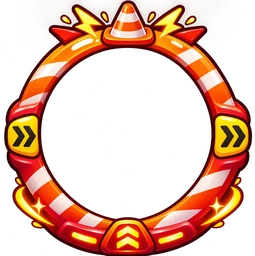
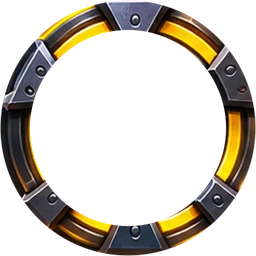
A-6: HUD cyberpunk del Pack 22 (aros, +, rangos, panel del jugador, moneda, barras de vida)
Claude-Session: https://claude.ai/code/session_016LDX8vNq6QmcdLey8vJErm

diff --git a/public/batalla/autopista.html b/public/batalla/autopista.html
@@ -552,6 +552,26 @@ body.guiada #objetivo{display:none}body.cine #guia{visibility:hidden}
 .bv.h.yo i{width:84px !important;height:10px !important}
 .bv.h.yo i::before{left:-20px;right:-20px;top:-8px;bottom:-8px;background-image:url(ui/ap_bv_yo.webp)}
 .bv.h b{margin-bottom:6px !important}.bv.h .mn{margin-top:6px}
+</style><style>
+/* A-6 · Pack 22: aros con hueco del 76 % */
+.hb[data-k]::after,.hb.hs::after,#bR::after{inset:-11% !important}
+/* panel del jugador: proporción 2,64; retrato en x 1,3-32,2 % e y 9,5-91 % */
+#yo{width:200px !important;height:76px !important;padding:0 10px 0 0 !important}
+#yo img{width:58px !important;height:58px !important;margin:0 0 0 4px !important}
+#yo>div{margin-left:10px !important}
+#yoNv{left:44px !important;top:48px !important;width:28px !important;height:28px !important;color:#e8fbff !important;-webkit-text-stroke:2px #061018 !important}
+.xp{width:110px !important;height:14px !important;padding:4px 7px 4px 13px !important}
+.xp i{background:linear-gradient(90deg,#1fa6ff,#5ff0ff) !important;border-radius:1px}
+#oro{color:#ffd35a !important}
+#vital{left:calc(212px + var(--sal)) !important}
+/* barras de vida: el hueco de cada marco medido */
+.bv.h i{width:80px !important;height:8px !important;border-radius:1px !important}
+.bv.h i::before{left:-13px;right:-12px;top:-3px;bottom:-5px}
+.bv.h.e1 i::before{left:-13px;right:-14px;top:-4px;bottom:-5px}
+.bv.h.yo i{width:90px !important;height:8px !important}
+.bv.h.yo i::before{left:-12px;right:-15px;top:-5px;bottom:-5px}
+.bv.h i u{border-radius:1px}
+.bv.h b{margin-bottom:3px !important}.bv.h .mn{margin-top:4px}
 </style><style>#mFondo .fc{background-image:url(ui/ap_carga.webp)!important}#mFondo .ff,#mFondo .fm,#mFondo .fr{display:none}#menu .mSplash img{object-position:50% 0%!important}</style><style>.mTit h1.apLogo{margin:6px 0 0;line-height:0}.mTit h1.apLogo img{width:min(200px,calc(24 * var(--vw)));height:auto;filter:drop-shadow(0 4px 6px #000a)}.mTit h1.apA6{margin:6px 0 0;font:italic 900 46px 'Arial Black',system-ui,sans-serif!important;color:#ffd21f!important;letter-spacing:.04em;line-height:1;-webkit-text-stroke:2px #10161f;text-shadow:0 4px 0 #10161f,0 0 18px #2f8cff88}</style></head>
 <body>
 <div id="cargaVelo" class="hidden"><div class="cvR"></div><p>Preparando la autopista</p><b>0 %</b></div>

diff --git a/tools/vado/hace_autopista.py b/tools/vado/hace_autopista.py
@@ -361,6 +361,28 @@ html = sub(html, '</head>', """<style>
 .bv.h.yo i::before{left:-20px;right:-20px;top:-8px;bottom:-8px;background-image:url(ui/ap_bv_yo.webp)}
 .bv.h b{margin-bottom:6px !important}.bv.h .mn{margin-top:6px}
 </style></head>""", donde='html')
+# ---------- PACK 22 ART (17/11): HUD cyberpunk (mismos nombres que el 19; tools/autopista/procesa_pack22.py). Medidas de los huecos ----------
+html = sub(html, '</head>', """<style>
+/* A-6 · Pack 22: aros con hueco del 76 % */
+.hb[data-k]::after,.hb.hs::after,#bR::after{inset:-11% !important}
+/* panel del jugador: proporción 2,64; retrato en x 1,3-32,2 % e y 9,5-91 % */
+#yo{width:200px !important;height:76px !important;padding:0 10px 0 0 !important}
+#yo img{width:58px !important;height:58px !important;margin:0 0 0 4px !important}
+#yo>div{margin-left:10px !important}
+#yoNv{left:44px !important;top:48px !important;width:28px !important;height:28px !important;color:#e8fbff !important;-webkit-text-stroke:2px #061018 !important}
+.xp{width:110px !important;height:14px !important;padding:4px 7px 4px 13px !important}
+.xp i{background:linear-gradient(90deg,#1fa6ff,#5ff0ff) !important;border-radius:1px}
+#oro{color:#ffd35a !important}
+#vital{left:calc(212px + var(--sal)) !important}
+/* barras de vida: el hueco de cada marco medido */
+.bv.h i{width:80px !important;height:8px !important;border-radius:1px !important}
+.bv.h i::before{left:-13px;right:-12px;top:-3px;bottom:-5px}
+.bv.h.e1 i::before{left:-13px;right:-14px;top:-4px;bottom:-5px}
+.bv.h.yo i{width:90px !important;height:8px !important}
+.bv.h.yo i::before{left:-12px;right:-15px;top:-5px;bottom:-5px}
+.bv.h i u{border-radius:1px}
+.bv.h b{margin-bottom:3px !important}.bv.h .mn{margin-top:4px}
+</style></head>""", donde='html')
 # ---------- EL PUENTE (17/11, Arturo: «como si estuvieses encima de un puente cruzando algo, y a los lados paisaje») ----------
 # el tablero (|x| < 11) cruza un barranco con río entre z = -38 y 38; las bases quedan en tierra firme a los dos lados
 js = sub(js, "      gl_FragColor=vec4(col,1.);\n      #include <colorspace_fragment>", "      gl_FragColor=vec4(col,hueco);\n      #include <colorspace_fragment>")

diff --git a/tools/autopista/procesa_pack22.py b/tools/autopista/procesa_pack22.py
@@ -1,0 +1,34 @@
+"""A-6 · Pack 22 ART (HUD cyberpunk; sustituye al del Pack 19). Ejecutar: python3 -I tools/autopista/procesa_pack22.py"""
+import os
+import numpy as np
+from PIL import Image
+
+R = os.path.dirname(os.path.dirname(os.path.dirname(os.path.abspath(__file__))))
+P, UI = os.path.join(R, 'tools/autopista/pack22'), os.path.join(R, 'public/batalla/ui')
+
+
+def hueco(a, fila=None, col=None):
+    """límites del hueco transparente central en % (horizontal por la fila del medio, vertical por la columna)"""
+    al = a[..., 3]; h, w = al.shape; fila = h // 2 if fila is None else fila; col = w // 2 if col is None else col
+    def tramo(v, c):
+        i = c
+        while i > 0 and v[i - 1] < 40: i -= 1
+        j = c
+        while j < len(v) - 1 and v[j + 1] < 40: j += 1
+        return i / len(v), j / len(v)
+    return tramo(al[fila], col), tramo(al[:, col], fila)
+
+
+for n, lado in [('aro_hab', 256), ('aro_hab_lista', 256), ('aro_ulti', 256), ('aro_ulti_lista', 256), ('aro_hechizo', 256),
+                ('mas', 160), ('insignia_nivel', 160), ('moneda', 96), ('punto_on', 96), ('punto_off', 96),
+                ('panel_yo', 1024), ('barra_xp', 512), ('bv_azul', 512), ('bv_rojo', 512), ('bv_yo', 512)]:
+    im = Image.open(f'{P}/ap_{n}.png').convert('RGBA')
+    im = im.crop(im.getbbox()); im.thumbnail((lado, lado), Image.LANCZOS)
+    im.save(os.path.join(UI, f'ap_{n}.webp'), 'WEBP', quality=92, method=6)
+    a = np.array(im); h, w = a.shape[:2]; txt = ''
+    if n.startswith('aro'): (x0, x1), _ = hueco(a); txt = 'hueco %.3f' % (x1 - x0)
+    if n.startswith('bv') or n == 'barra_xp': (x0, x1), (y0, y1) = hueco(a); txt = 'hueco x %.3f-%.3f y %.3f-%.3f' % (x0, x1, y0, y1)
+    if n == 'panel_yo':
+        al = a[..., 3]; cols = [x for x in range(int(w * .02), int(w * .4)) if al[h // 2, x] < 40]
+        cx = (cols[0] + cols[-1]) // 2; (x0, x1), (y0, y1) = hueco(a, col=cx); txt = 'retrato x %.3f-%.3f y %.3f-%.3f' % (x0, x1, y0, y1)
+    print(n, im.size, '%.2f' % (w / h), txt)

diff --git a/CLAUDE.md b/CLAUDE.md
@@ -240,5 +240,6 @@ Juego web privado para 9 amigos (Arturo, Porru, Adrián, Carlos, Fer, Edo, Rodri
 - HUD DE PARTIDA A-6 (17/11, Arturo; bloque «HUD DE PARTIDA» del generador): minimapa arriba del todo con NIEBLA (solo se ven enemigos dentro de la vista de tu héroe 13 m, tus soldados 8 m, tus torres 13 m y tus balizas 10 m: `VIS_MM`, `vistoMm`, `NIEBLA_MM`; en el mundo 3D sigue sin niebla), marcador nuevo [azul | reloj | rojo] centrado arriba, batería de energía junto al retrato (arriba a la izquierda), R más arriba (`#bR` bottom 172), aros de las habilidades de color por CSS (cian, R naranja, lista dorada) en vez del aro metálico gris.
 - NIEBLA EN EL MAPA (17/11, como el LoL): con la vista del minimapa (`VIS_MM`: héroe 14 m, soldados 9, torres 13, balizas 10) se pinta `NIEBLA_SUELO` (64x140, 1 px = 1 m) → `NIEBLA_TEX` y el suelo se oscurece un 58 % fuera de la vista; héroes enemigos fuera de la vista = «escondidos» (no se ven ni se pueden señalar) y soldados enemigos ocultos. Solo en el cliente (la simulación no cambia).
 - PACK 19 ART (17/11, HUD estilo Supercell, originales en `tools/autopista/pack19`, `python3 -I tools/autopista/procesa_pack19.py`, que mide los huecos): aros de habilidad azul/dorado (hueco 71 %), definitiva naranja (66 %), hechizos blanco, botón + verde, puntos de rango, panel del jugador `ap_panel_yo` (retrato en el hueco 6,6-27,5 %, nivel en la insignia, moneda de cono, barra de experiencia con marco) y marcos de las barras de vida de los héroes (azul/rojo/dorado tú; el marco va en `.bv.h i::before` alrededor de la barra, que ocupa justo el hueco). Bloque «PACK 19 ART» del generador.
+- PACK 22 ART (17/11, Henar: «el 19 es muy infantil; más serio, cyberpunk»): mismas piezas y nombres que el Pack 19 en estilo metal oscuro + neón (originales y hoja de estilo en `tools/autopista/pack22`, `python3 -I tools/autopista/procesa_pack22.py` mide los huecos: aros 76 %, panel retrato x 1,3-32,2 %, barras de vida según cada marco). Bloque «PACK 22 ART» del generador, que corrige las medidas del bloque del 19. DIRECCIÓN DE ARTE de A-6: la pantalla de carga, los retratos y el resto gustan; lo de la partida, serio/cyberpunk, nada de caramelo.
 - APP ANDROID DE LA AUTOPISTA (17/11): módulo `android/autopista` (copia de `android/brecha`, applicationId `com.laotracomunidad.autopista`, misma firma, abre `/batalla/autopista.html`, icono del cono y carga del Pack 4). El workflow `apk.yml` la compila con las otras y publica `la-autopista.apk` en la release `autopista-latest`. Sin compilar en la sesión (no hay SDK de Android).
 - Prueba: `/home/claude/pruebas/t_auto.py <clave>` (Playwright, servidor en public:8799).

diff --git a/docs/pendiente-chatgpt.md b/docs/pendiente-chatgpt.md
@@ -65,4 +65,4 @@ ART = chat normal de ChatGPT (no gasta tokens). WORK = modo agente (gasta tokens
 - [x] (HECHO 17/11, `tools/autopista/pack19`) Pack Autopista 19 ART: HUD estilo Supercell — aros de habilidad (normal/lista/definitiva), botón +, puntos de rango, aro de hechizo, panel del jugador (retrato, nivel, experiencia, oro, KDA), barras de vida sobre la cabeza (17/11)
 - [ ] Pack Autopista 20 ART: Taller estilo Supercell — panel, huecos de objeto (normal/legendario/seleccionado), pestañas, botón COMPRAR, etiqueta de precio, ficha de objeto (17/11)
 - [x] ~~Pack Autopista 21 ART~~ (anulado 17/11: lo sustituye el 22, estilo cyberpunk)
-- [ ] Pack Autopista 22 ART (cyberpunk serio, sustituye al HUD del 19): paso 1 hoja de estilo para aprobar; paso 2 las piezas sueltas (aros, +, rangos, hechizo, panel del jugador, nivel, experiencia, moneda, barras de vida) — 17/11
+- [x] (HECHO 17/11, `tools/autopista/pack22`) Pack Autopista 22 ART (cyberpunk serio, sustituye al HUD del 19): paso 1 hoja de estilo para aprobar; paso 2 las piezas sueltas (aros, +, rangos, hechizo, panel del jugador, nivel, experiencia, moneda, barras de vida) — 17/11
